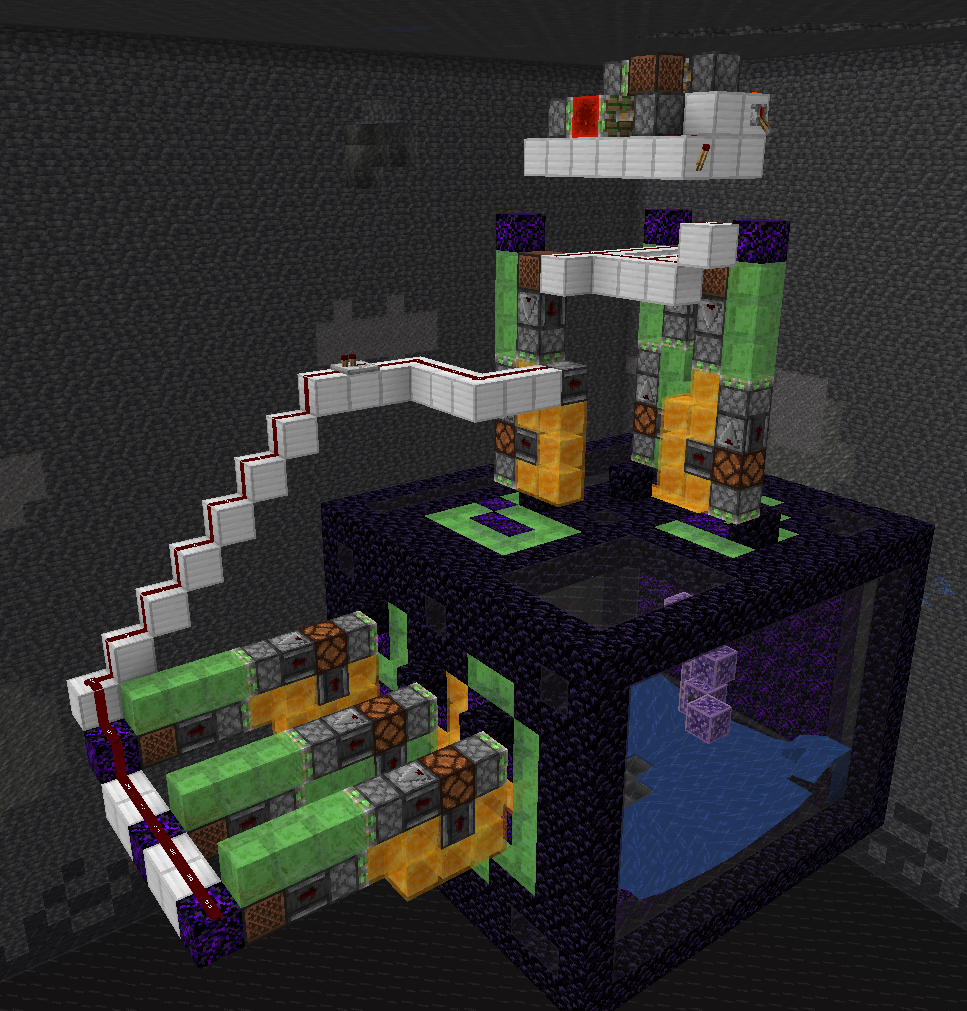
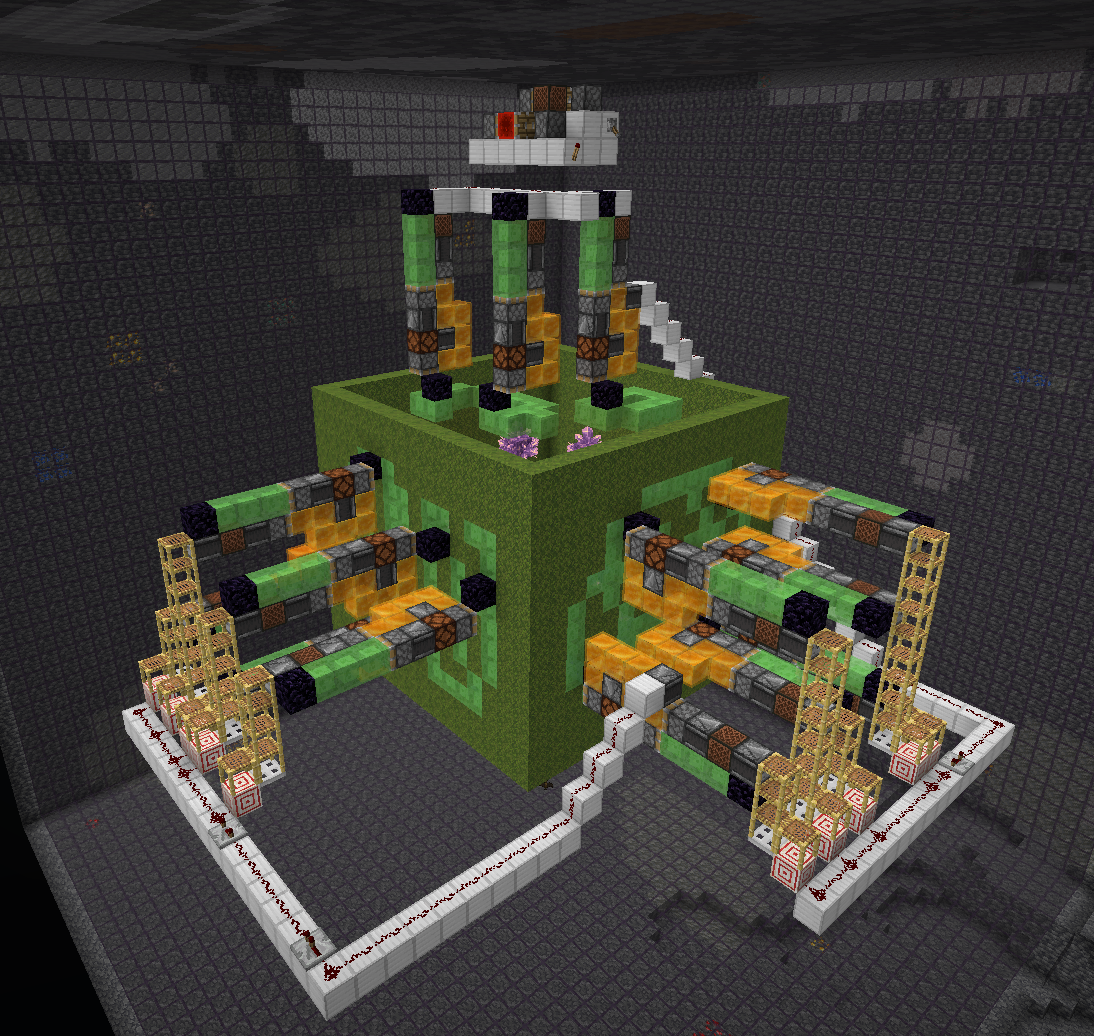
update documentation for v2.0

diff --git a/README.md b/README.md
@@ -2,8 +2,8 @@
 
 [![ko-fi](https://ko-fi.com/img/githubbutton_sm.svg)](https://ko-fi.com/Y8Y726QMH)
 
-Small Fabric mod for calculating amethyst farm flying machine layout.
-Inspired by [ilmango's video](https://www.youtube.com/watch?v=fY90xF3ug84) and
+Small Fabric mod for calculating amethyst farm flying machine layout. Inspired by
+the original [ilmango's video](https://www.youtube.com/watch?v=fY90xF3ug84) and
 the flying machine based farm made by neffty87.
 
 ## Usage
@@ -12,6 +12,10 @@ You should only run this in disposable worlds, either in single player or on ser
 where you have op. Command blocks must also be enabled.
 
 **The mod *will* destroy the immediate surroundings of the geode!**
+
+### Video Tutorial by ilmango
+
+[![Video Tutorial by ilmango](https://raw.githubusercontent.com/kosma/geodesy-fabric/master/assets/video.png)](https://www.youtube.com/c/ilmango/videos)
 
 ### Step 1: Geode
 
@@ -37,7 +41,7 @@ volume and the mod will find the geode anyway. The only time you have to be care
 is when you have two geodes very close to each other (this is also the reason we don't
 have autodetection - it easily got confused with multiple geodes nearby).
 
-Here I run `/geodesy area 259 -37 -1459 277 -50 -1477`:
+Here I run `/geodesy area 701 -24 -945 712 -15 -934`:
 
 ![Geode area excavated, bounding box displayed.](https://raw.githubusercontent.com/kosma/geodesy-fabric/master/assets/geode2.png)
 
@@ -57,10 +61,10 @@ Here I run `/geodesy analyze`:
 Run `/geodesy project (directions)` to project the geode onto three planes and create
 the farm structure:
 
-* Moss block means this location contains amethyst clusters to be pushed and destroyed.
+* Pumpkin means this location contains amethyst clusters to be pushed and destroyed.
 * Crying obsidian block means this location contains budding amethyst blocks, so
   the flying machine must not fly through that location.
-* Obsidian marks the outer frame of the machine.
+* Moss marks the outer frame of the machine.
 * Buttons inside the farm mark spots that can't be harvested; you should have those
   buttons in the farm to prevent items from landing on unharvested amethyst clusters.
 
@@ -72,30 +76,26 @@ efficiency of the farm:
   you can also change up/down but that will make item collection pretty weird.
 * You can choose to only include one or two directions instead of the usual three.
   This will lower the farm's efficiency but can also mean much less work to do.
-* You can change the order of the directions to influence the shapes of the moss formations.
+* You can change the order of the directions to influence the shapes of the pumpkin formations.
   Some formations are easier to cover with sticky blocks than other. Experiment to find out.
 
-In this particular geode's case, I decided to only use two directions as that gets me to 96% efficiency.
-Adding the third direction only improves the efficiency by further 2%. I also choose the order of
-"south up" as it generates simpler moss patterns.
-
-Here I run `/geodesy project south up`:
+Here I run `/geodesy project east south up`:
 
 ![Projection done.](https://raw.githubusercontent.com/kosma/geodesy-fabric/master/assets/geode4.png)
 
 ### Step 5: Sticky blocks
 
-Place the slime and honey blocks outside the structure, as shown by ilmango. All moss
-blocks should be covered; no crying obsidian blocks should be covered. If you can't cover
-all moss blocks, the efficiency of the farm will be slightly reduced.
+Place the slime and honey blocks outside the structure, as shown by ilmango in the video.
+All pumpkin blocks should be covered; no crying obsidian blocks should be covered. If you
+can't cover all pumpkin blocks, the efficiency of the farm will be slightly reduced.
 
 ![Sticky block structures placed.](https://raw.githubusercontent.com/kosma/geodesy-fabric/master/assets/geode5.png)
 
 ### Step 6: Marker blocks
 
 Using the supplied mob heads, place markers to indicate where the flying machines
-should go. Black mob head a blocker obsidian block, three green mob heads indicate
-a flying machine.
+should go. Black mob head markes a blocker obsidian block, three green mob heads
+indicate a flying machine.
 
 ![Flying machine markers placed.](https://raw.githubusercontent.com/kosma/geodesy-fabric/master/assets/geode6.png)
 
@@ -109,12 +109,28 @@ generated for your convenience - just connect it.
 
 ### Step 8: Wiring
 
-The rest is up to you! Add trigger wiring and collection system. Again, watch ilmango's video for more information.
+The rest is up to you! Add trigger wiring and collection system. When adding repeaters to the trigger
+wiring, make sure to set them to maximum delay.  Again, watch ilmango's video for more information.
 
 ![Finished farm.](https://raw.githubusercontent.com/kosma/geodesy-fabric/master/assets/geode8.png)
 
-## Authors
+## Credits
 
 * Kosma Moczek - mod concept + code
-* ilmango - farm design
+* ilmango - farm design + two great videos
 * neffty87 - farm concept
+
+## Possible improvements?
+
+There are still so many things that can be improved about the farm:
+
+1. Automatic sticky block clustering. I am aware that this problem is NP-complete but at this size
+   it can hopefully be either bruteforced or at least solved with some dynamic programming. Algorithmic
+   geniuses and their PRs are welcome.
+2. Generation of 1x2 flying machines that ilmango has shown in
+   (Scicraft S02E04)[https://www.youtube.com/watch?v=05AEd_1KQNY].
+4. Better water collection system generation. The current code struggles with weird sizes like 9x29.
+5. Better trigger wiring generation - it still requires some manual work, and I'm 100% sure it can be
+   fully automated to the point where the farm requires zero extra manual work.
+6. Perhaps an automated test suite? There's still so much stuff I have to test manually when adding
+   or changing functionality.
